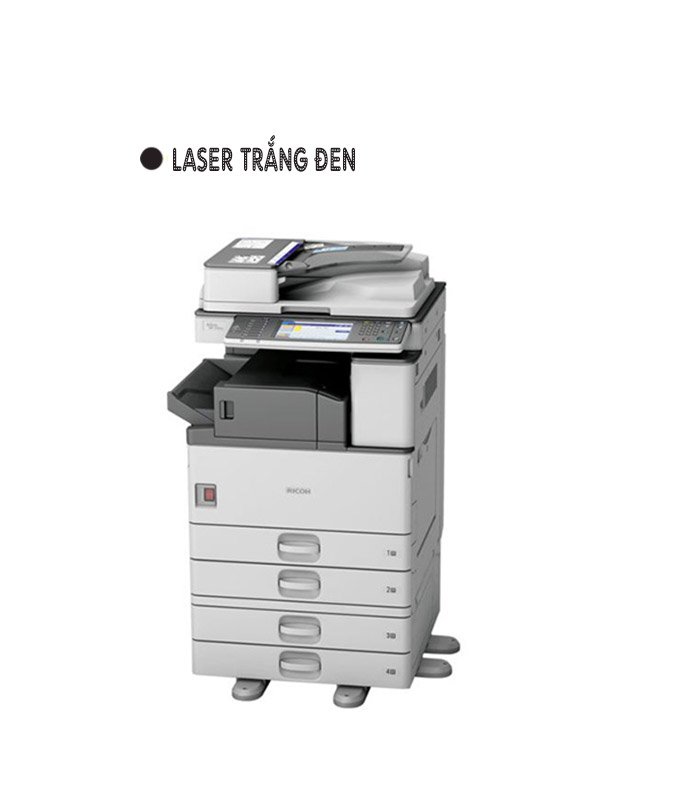
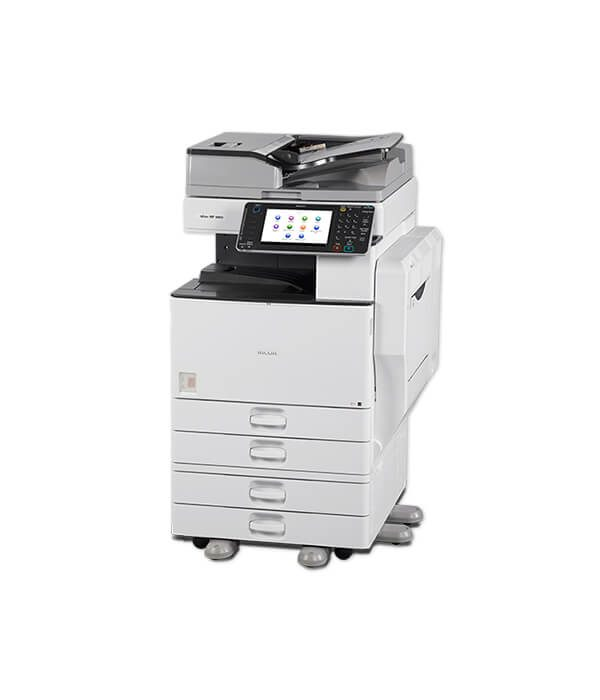
Banner1

Changed region(s): [[0.18, 0.18, 0.75, 0.9]]

diff --git a/avp-website/resources/views/components/banner-carousel.blade.php b/avp-website/resources/views/components/banner-carousel.blade.php
@@ -1,0 +1,84 @@
+<div x-data="{ 
+    activeSlide: 1, 
+    slides: [
+        { 
+            id: 1, 
+            image: '{{ asset('images/banners/banner_photocopy.png') }}',
+            title: 'Giải Pháp Photocopy Chuyên Nghiệp',
+            subtitle: 'Dịch vụ cho thuê và bán máy photocopy Ricoh chính hãng, hiệu suất cao cho doanh nghiệp.',
+            badge: 'SẢN PHẨM MỚI'
+        },
+        { 
+            id: 2, 
+            image: null,
+            title: 'Banner Quảng Cáo 2',
+            subtitle: 'Nội dung quảng cáo cho slide số 2. Sẵn sàng để thay thế bằng hình ảnh của bạn.',
+            badge: 'KHUYẾN MÃI'
+        },
+        { 
+            id: 3, 
+            image: null,
+            title: 'Banner Quảng Cáo 3',
+            subtitle: 'Nội dung quảng cáo cho slide số 3. Sẵn sàng để thay thế bằng hình ảnh của bạn.',
+            badge: 'TIN TỨC'
+        }
+    ],
+    autoPlay() {
+        setInterval(() => {
+            this.activeSlide = this.activeSlide === this.slides.length ? 1 : this.activeSlide + 1;
+        }, 6000);
+    }
+}" x-init="autoPlay()" class="relative overflow-hidden bg-gray-100 shadow-premium h-[480px] lg:h-[600px]">
+    
+    <!-- Slides -->
+    <template x-for="slide in slides" :key="slide.id">
+        <div x-show="activeSlide === slide.id" 
+             x-transition:enter="transition ease-out duration-1000"
+             x-transition:enter-start="opacity-0 transform scale-105"
+             x-transition:enter-end="opacity-100 transform scale-100"
+             x-transition:leave="transition ease-in duration-1000"
+             x-transition:leave-start="opacity-100 transform scale-100"
+             x-transition:leave-end="opacity-0 transform scale-95"
+             class="absolute inset-0 w-full h-full">
+            
+            <!-- Slide Content (Interactive Group) -->
+            <div class="relative w-full h-full flex items-center justify-center overflow-hidden group cursor-pointer">
+                <!-- Background Image or Gradient -->
+                <template x-if="slide.image">
+                    <img :src="slide.image" class="absolute inset-0 w-full h-full object-cover transition-all duration-700 group-hover:scale-105 group-hover:brightness-50">
+                </template>
+                <template x-if="!slide.image">
+                    <div class="absolute inset-0 bg-gradient-to-br from-gray-800 to-dark transition-all duration-700 group-hover:brightness-50"></div>
+                </template>
+
+                <!-- Hover Actions -->
+                <div class="relative z-10 opacity-0 group-hover:opacity-100 transition-all duration-500 transform translate-y-4 group-hover:translate-y-0">
+                    <button class="bg-white text-dark px-12 py-4 rounded-full font-black text-xl shadow-2xl hover:bg-primary hover:text-white transition-all transform hover:scale-110 flex items-center gap-3 uppercase tracking-tighter">
+                        Chi tiết
+                        <svg class="w-6 h-6" fill="none" stroke="currentColor" viewBox="0 0 24 24"><path stroke-linecap="round" stroke-linejoin="round" stroke-width="2" d="M14 5l7 7m0 0l-7 7m7-7H3"></path></svg>
+                    </button>
+                </div>
+            </div>
+        </div>
+    </template>
+
+    <!-- Navigation Dots -->
+    <div class="absolute bottom-10 left-1/2 -translate-x-1/2 flex gap-3 z-20">
+        <template x-for="slide in slides" :key="slide.id">
+            <button @click="activeSlide = slide.id" 
+                    :class="activeSlide === slide.id ? 'bg-primary w-14' : 'bg-white/40 w-3 hover:bg-white/60'"
+                    class="h-3 rounded-full transition-all duration-500 shadow-sm"></button>
+        </template>
+    </div>
+
+    <!-- Navigation Arrows -->
+    <button @click="activeSlide = activeSlide === 1 ? slides.length : activeSlide - 1" 
+            class="absolute left-8 top-1/2 -translate-y-1/2 w-14 h-14 bg-black/5 hover:bg-primary rounded-full flex items-center justify-center text-white/30 hover:text-white transition-all group z-20 border border-white/5 hover:border-white/20">
+        <svg class="w-8 h-8 transform group-hover:-translate-x-1 transition-transform" fill="none" stroke="currentColor" viewBox="0 0 24 24"><path stroke-linecap="round" stroke-linejoin="round" stroke-width="2" d="M15 19l-7-7 7-7"></path></svg>
+    </button>
+    <button @click="activeSlide = activeSlide === slides.length ? 1 : activeSlide + 1" 
+            class="absolute right-8 top-1/2 -translate-y-1/2 w-14 h-14 bg-black/5 hover:bg-primary rounded-full flex items-center justify-center text-white/30 hover:text-white transition-all group z-20 border border-white/5 hover:border-white/20">
+        <svg class="w-8 h-8 transform group-hover:translate-x-1 transition-transform" fill="none" stroke="currentColor" viewBox="0 0 24 24"><path stroke-linecap="round" stroke-linejoin="round" stroke-width="2" d="M9 5l7 7-7 7"></path></svg>
+    </button>
+
+</div>

diff --git a/avp-website/resources/views/home/index.blade.php b/avp-website/resources/views/home/index.blade.php
@@ -32,12 +32,15 @@
 
                 <!-- Right Main Content -->
                 <main class="flex-grow flex flex-col gap-8">
+                    <!-- Top Banner Carousel -->
+                    <x-banner-carousel />
+
                     <!-- Photocopy Machines Section -->
                     <section>
                         <div class="flex flex-col md:flex-row md:items-end justify-between gap-6 mb-8 border-l-8 border-secondary pl-6">
                             <div>
                                 <h2 class="text-3xl font-black text-dark tracking-tighter uppercase mb-1">Máy Photocopy Công Nghiệp</h2>
-                                <p class="text-gray-500 font-medium text-sm">Giải pháp in ấn và photocopy <span class="text-secondary font-bold">Thuê & Mua</span> cho doanh nghiệp lớn.</p>
+                                <p class="text-gray-500 font-medium text-sm">Giải pháp photocopy cho khách hàng/doanh nghiệp lớn.</p>
                             </div>
                         </div>
 

diff --git a/avp-website/resources/views/layouts/app.blade.php b/avp-website/resources/views/layouts/app.blade.php
@@ -14,6 +14,9 @@
     <link rel="preconnect" href="https://fonts.gstatic.com" crossorigin>
     <link href="https://fonts.googleapis.com/css2?family=Inter:wght@300;400;500;600;700&family=Outfit:wght@400;500;600;700&display=swap" rel="stylesheet">
 
+    <!-- Favicon -->
+    <link rel="icon" type="image/x-icon" href="{{ asset('images/favicon.ico') }}">
+
     <!-- Scripts and Styles -->
     @vite(['resources/css/app.css', 'resources/js/app.js'])
     